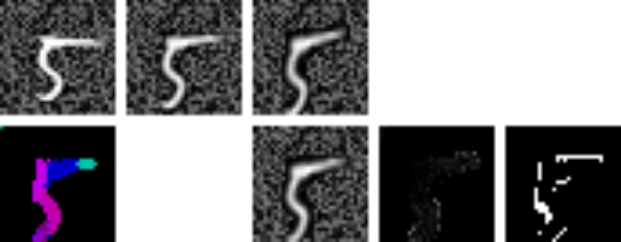
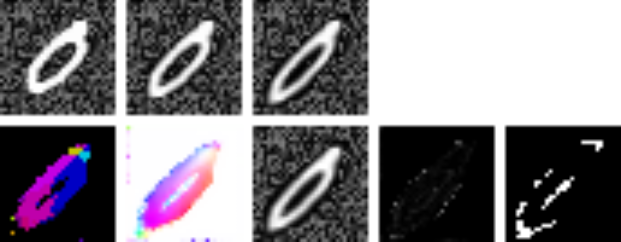
exp014-1 continuous optical flow works, visualization is much better

diff --git a/exp014-1/visualize.py b/exp014-1/visualize.py
@@ -1,9 +1,17 @@
 import numpy
 import cv2
+import matplotlib.colors as cl
 import matplotlib.pyplot as plt
 
+import sys
+sys.path.append('../OpticalFlowToolkit/lib')
+import flowlib as fl
 
-def visualize(im1, im2, im3, pred, pred_motion, m_range, m_dict, reverse_m_dict):
+
+UNKNOWN_FLOW_THRESH = 1e7
+
+
+def visualize(im1, im2, im3, pred, pred_motion, flow, m_range, m_dict, reverse_m_dict):
     img_size = im1.size(2)
     width, height = get_img_size(2, 5, img_size)
     img = numpy.ones((height, width, 3))
@@ -41,6 +49,12 @@ def visualize(im1, im2, im3, pred, pred_motion, m_range, m_dict, reverse_m_dict)
     x1, y1, x2, y2 = get_img_coordinate(2, 1, img_size)
     img[y1:y2, x1:x2, :] = pred_motion
 
+    flow = flow[0].cpu().data.numpy().transpose(1, 2, 0)
+    # flow = visualize_flow(flow)
+    optical_flow = flow_to_image(flow)
+    x1, y1, x2, y2 = get_img_coordinate(2, 2, img_size)
+    img[y1:y2, x1:x2, :] = optical_flow / 255.0
+
     plt.figure(1)
     plt.imshow(img)
     plt.axis('off')
@@ -75,3 +89,174 @@ def label2flow(motion_label, m_range, reverse_m_dict):
     rgb = cv2.cvtColor(hsv.astype(numpy.uint8), cv2.COLOR_HSV2BGR)
     return rgb
 
+
+def visualize_flow(flow, mode='Y'):
+    """
+    this function visualize the input flow
+    :param flow: input flow in array
+    :param mode: choose which color mode to visualize the flow (Y: Ccbcr, RGB: RGB color)
+    :return: None
+    """
+    if mode == 'Y':
+        # Ccbcr color wheel
+        img = flow_to_image(flow)
+    elif mode == 'RGB':
+        (h, w) = flow.shape[0:2]
+        du = flow[:, :, 0]
+        dv = flow[:, :, 1]
+        valid = flow[:, :, 2]
+        max_flow = max(numpy.max(du), numpy.max(dv))
+        img = numpy.zeros((h, w, 3), dtype=numpy.float64)
+        # angle layer
+        img[:, :, 0] = numpy.arctan2(dv, du) / (2 * numpy.pi)
+        # magnitude layer, normalized to 1
+        img[:, :, 1] = numpy.sqrt(du * du + dv * dv) * 8 / max_flow
+        # phase layer
+        img[:, :, 2] = 8 - img[:, :, 1]
+        # clip to [0,1]
+        small_idx = img[:, :, 0:3] < 0
+        large_idx = img[:, :, 0:3] > 1
+        img[small_idx] = 0
+        img[large_idx] = 1
+        # convert to rgb
+        img = cl.hsv_to_rgb(img)
+        # remove invalid point
+        img[:, :, 0] = img[:, :, 0] * valid
+        img[:, :, 1] = img[:, :, 1] * valid
+        img[:, :, 2] = img[:, :, 2] * valid
+
+    return img
+
+
+def flow_to_image(flow):
+    """
+    Convert flow into middlebury color code image
+    :param flow: optical flow map
+    :return: optical flow image in middlebury color
+    """
+    u = flow[:, :, 0]
+    v = flow[:, :, 1]
+
+    maxu = -999.
+    maxv = -999.
+    minu = 999.
+    minv = 999.
+
+    idxUnknow = (abs(u) > UNKNOWN_FLOW_THRESH) | (abs(v) > UNKNOWN_FLOW_THRESH)
+    u[idxUnknow] = 0
+    v[idxUnknow] = 0
+
+    maxu = max(maxu, numpy.max(u))
+    minu = min(minu, numpy.min(u))
+
+    maxv = max(maxv, numpy.max(v))
+    minv = min(minv, numpy.min(v))
+
+    rad = numpy.sqrt(u ** 2 + v ** 2)
+    maxrad = max(-1, numpy.max(rad))
+
+    print "max flow: %.4f\nflow range:\nu = %.3f .. %.3f\nv = %.3f .. %.3f" % (maxrad, minu,maxu, minv, maxv)
+
+    u = u/(maxrad + numpy.finfo(float).eps)
+    v = v/(maxrad + numpy.finfo(float).eps)
+
+    img = compute_color(u, v)
+
+    idx = numpy.repeat(idxUnknow[:, :, numpy.newaxis], 3, axis=2)
+    img[idx] = 0
+
+    return numpy.uint8(img)
+
+
+def compute_color(u, v):
+    """
+    compute optical flow color map
+    :param u: optical flow horizontal map
+    :param v: optical flow vertical map
+    :return: optical flow in color code
+    """
+    [h, w] = u.shape
+    img = numpy.zeros([h, w, 3])
+    nanIdx = numpy.isnan(u) | numpy.isnan(v)
+    u[nanIdx] = 0
+    v[nanIdx] = 0
+
+    colorwheel = make_color_wheel()
+    ncols = numpy.size(colorwheel, 0)
+
+    rad = numpy.sqrt(u**2+v**2)
+
+    a = numpy.arctan2(-v, -u) / numpy.pi
+
+    fk = (a+1) / 2 * (ncols - 1) + 1
+
+    k0 = numpy.floor(fk).astype(int)
+
+    k1 = k0 + 1
+    k1[k1 == ncols+1] = 1
+    f = fk - k0
+
+    for i in range(0, numpy.size(colorwheel,1)):
+        tmp = colorwheel[:, i]
+        col0 = tmp[k0-1] / 255
+        col1 = tmp[k1-1] / 255
+        col = (1-f) * col0 + f * col1
+
+        idx = rad <= 1
+        col[idx] = 1-rad[idx]*(1-col[idx])
+        notidx = numpy.logical_not(idx)
+
+        col[notidx] *= 0.75
+        img[:, :, i] = numpy.uint8(numpy.floor(255 * col*(1-nanIdx)))
+
+    return img
+
+
+def make_color_wheel():
+    """
+    Generate color wheel according Middlebury color code
+    :return: Color wheel
+    """
+    RY = 15
+    YG = 6
+    GC = 4
+    CB = 11
+    BM = 13
+    MR = 6
+
+    ncols = RY + YG + GC + CB + BM + MR
+
+    colorwheel = numpy.zeros([ncols, 3])
+
+    col = 0
+
+    # RY
+    colorwheel[0:RY, 0] = 255
+    colorwheel[0:RY, 1] = numpy.transpose(numpy.floor(255*numpy.arange(0, RY) / RY))
+    col += RY
+
+    # YG
+    colorwheel[col:col+YG, 0] = 255 - numpy.transpose(numpy.floor(255*numpy.arange(0, YG) / YG))
+    colorwheel[col:col+YG, 1] = 255
+    col += YG
+
+    # GC
+    colorwheel[col:col+GC, 1] = 255
+    colorwheel[col:col+GC, 2] = numpy.transpose(numpy.floor(255*numpy.arange(0, GC) / GC))
+    col += GC
+
+    # CB
+    colorwheel[col:col+CB, 1] = 255 - numpy.transpose(numpy.floor(255*numpy.arange(0, CB) / CB))
+    colorwheel[col:col+CB, 2] = 255
+    col += CB
+
+    # BM
+    colorwheel[col:col+BM, 2] = 255
+    colorwheel[col:col+BM, 0] = numpy.transpose(numpy.floor(255*numpy.arange(0, BM) / BM))
+    col += + BM
+
+    # MR
+    colorwheel[col:col+MR, 2] = 255 - numpy.transpose(numpy.floor(255 * numpy.arange(0, MR) / MR))
+    colorwheel[col:col+MR, 0] = 255
+
+    return colorwheel

diff --git a/exp014-1/main.py b/exp014-1/main.py
@@ -71,7 +71,10 @@ def test_supervised(args, model, images, m_dict, reverse_m_dict, m_kernel):
         if args.display:
             m_range = args.motion_range
             pred = construct_image(im2, motion, m_range, m_kernel, padding=m_range)
-            visualize(im1, im2, im3, pred, pred_motion, m_range, m_dict, reverse_m_dict)
+            # visualize(im1, im2, im3, pred, pred_motion, m_range, m_dict, reverse_m_dict)
+            motion = F.softmax(motion)
+            flow = label2flow2(motion, reverse_m_dict)
+            visualize(im1, im2, im3, pred, pred_motion, flow, m_range, m_dict, reverse_m_dict)
         # This line assumes disappeared pixels have motion 0, which should be changed in the future.
         # pred_motion[pred_motion == model.n_class-1] = m_dict[(0, 0)]
         # accuracy = pred_motion.eq(gt_motion).float().sum() * 1.0 / gt_motion.numel()
@@ -126,6 +129,23 @@ def train_unsupervised(args, model, images, m_dict, reverse_m_dict, m_kernel):
             with open(os.path.join(args.save_dir, 'final.pth'), 'w') as handle:
                 torch.save(model.state_dict(), handle)
     return model
+
+
+def label2flow2(motion, reverse_m_dict):
+    [batch_size, num_class, height, width] = motion.size()
+    kernel_x = Variable(torch.zeros(batch_size, num_class - 1, height, width))
+    kernel_y = Variable(torch.zeros(batch_size, num_class - 1, height, width))
+    if torch.cuda.is_available():
+        kernel_x = kernel_x.cuda()
+        kernel_y = kernel_y.cuda()
+    for i in range(num_class - 1):
+        (m_x, m_y) = reverse_m_dict[i]
+        kernel_x[:, i, :, :] = m_x
+        kernel_y[:, i, :, :] = m_y
+    flow = Variable(torch.zeros(batch_size, 2, height, width))
+    flow[:, 0, :, :] = (motion[:, :-1, :, :] * kernel_x).sum(1)
+    flow[:, 1, :, :] = (motion[:, :-1, :, :] * kernel_y).sum(1)
+    return flow
 
 
 def main():
